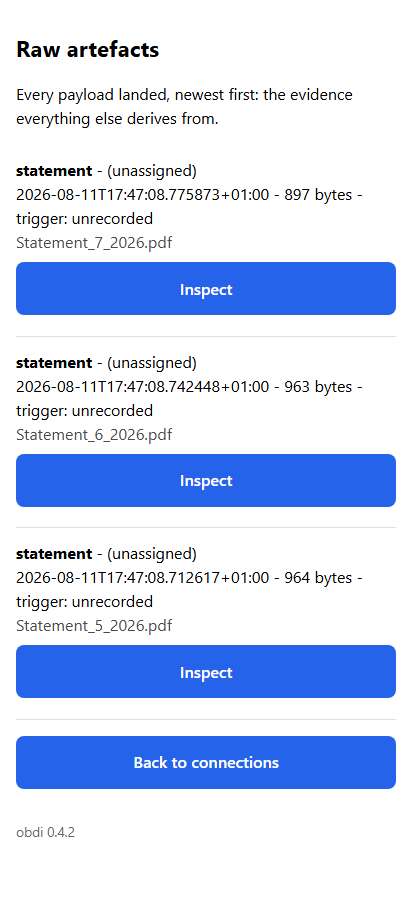
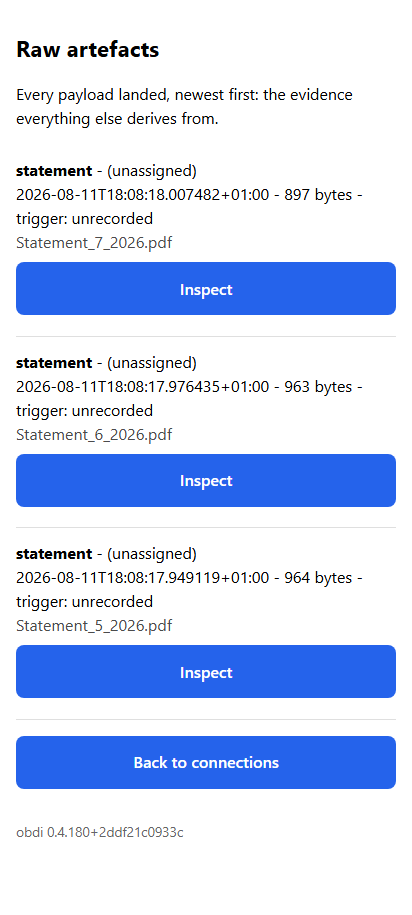
Screenshots name the build they are of, and one animation shows a batch landing
A picture that cannot be traced to a commit is a picture of nothing in
particular. Every image now carries the version and the short commit it
was generated from, in the footer the pages already render, and the same
pair is written beside them as text - a footer inside a picture cannot be
grepped, compared, or read by anything that is not a person looking at it.
A working tree with uncommitted changes says so, since it did not come
from that commit.

That needed the version to be true, which it was not. An editable install
records the version it was installed AT and never moves, so a tree at
0.4.179 reported 0.4.2 - the exact failure the build stamp exists to
defend against, arriving from the other side. The version may now be
supplied explicitly for the case where installed metadata cannot answer
honestly. It is a label; the commit remains the half that pins the code
and the half that cannot be argued with.

The animation shows a batch of statements landing: names recognised as
already held and skipped without being sent, the rest going one at a time,
each keeping its own line with its size, duration and outcome. Recorded
through a THROTTLED connection, which is not a contrivance - over loopback
a handful of invented statements land faster than a single frame, and the
link this is used over has been measured between 0.27 and 3.2 Mbps, so a
slow upload is the ordinary case and the one the per-file lines were built
[…]

diff --git a/scripts/capture_screens.py b/scripts/capture_screens.py
@@ -76,7 +76,41 @@ STATEMENTS = {
         "24 Jul SALARY 2,100.00",
         "Closing balance 7,292.31",
     ],
+    "Statement_8_2026.pdf": [
+        "Example Bank plc",
+        "Statement of account",
+        "01 Aug 2026 to 31 Aug 2026",
+        "Opening balance 7,292.31",
+        "03 Aug DIRECT DEBIT UTILITIES 62.00",
+        "14 Aug CARD PAYMENT GARDEN CENTRE 96.40",
+        "24 Aug SALARY 2,100.00",
+        "Closing balance 9,233.91",
+    ],
+    "Statement_9_2026.pdf": [
+        "Example Bank plc",
+        "Statement of account",
+        "01 Sep 2026 to 30 Sep 2026",
+        "Opening balance 9,233.91",
+        "02 Sep DIRECT DEBIT UTILITIES 62.00",
+        "24 Sep SALARY 2,100.00",
+        "Closing balance 11,271.91",
+    ],
+    "Statement_10_2026.pdf": [
+        "Example Bank plc",
+        "Statement of account",
+        "01 Oct 2026 to 31 Oct 2026",
+        "Opening balance 11,271.91",
+        "02 Oct DIRECT DEBIT UTILITIES 62.00",
+        "09 Oct CARD PAYMENT CYCLE REPAIR 74.25",
+        "24 Oct SALARY 2,100.00",
+        "Closing balance 13,235.66",
+    ],
 }
+
+#: How many are landed before the animation runs. The rest are new, so the
+#: recording shows both halves: what is recognised and skipped, and what is
+#: actually sent.
+SEEDED = 3
 
 #: Two declared accounts, so the picker in the pictures is not empty.
 ACCOUNTS = {
@@ -86,6 +120,40 @@ ACCOUNTS = {
         {"id": "example-savings", "kind": "savings", "label": "Example savings"},
     ],
 }
+
+
+def running_build() -> tuple[str, str]:
+    """The version and commit these pictures will be OF.
+
+    Read from the sources of truth rather than from the installed
+    metadata, which an editable install freezes at whatever it was when
+    `pip install -e` last ran. Pictures that cannot be traced back to a
+    commit are pictures of nothing in particular, and the footer they
+    carry is the record.
+    """
+    version = ""
+    for line in (REPO / "pyproject.toml").read_text(encoding="utf-8").splitlines():
+        if line.startswith("version = "):
+            version = line.split("=", 1)[1].strip().strip('"')
+            break
+    commit = subprocess.run(
+        ["git", "rev-parse", "--short=12", "HEAD"],  # noqa: S607
+        cwd=str(REPO),
+        capture_output=True,
+        text=True,
+        check=False,
+    ).stdout.strip()
+    dirty = subprocess.run(
+        ["git", "status", "--porcelain"],  # noqa: S607
+        cwd=str(REPO),
+        capture_output=True,
+        text=True,
+        check=False,
+    ).stdout.strip()
+    # A working tree with changes in it did not come from that commit, and
+    # saying so is cheaper than wondering later why the picture and the
+    # commit disagree.
+    return version, (f"{commit}-dirty" if dirty else commit)
 
 
 def wait_for(url: str, seconds: int = 30) -> None:
@@ -115,6 +183,85 @@ def upload(name: str, payload: bytes) -> None:
     urllib.request.urlopen(request, timeout=60).read()  # noqa: S310
 
 
+#: Frames for the animation, and how long each is shown. Enough to watch a
+#: batch land without becoming a file nobody waits for: a README animation
+#: that takes longer to play than the thing it shows has stopped
+#: illustrating and started delaying.
+GIF_FRAMES = 26
+GIF_INTERVAL_MS = 220
+GIF_HOLD_MS = 1800
+
+#: Throttled upload, in bytes per second. Over loopback a handful of small
+#: statements land faster than one frame, so the recording would show a
+#: form and then a result with nothing between them. The link this is used
+#: over has been measured between 0.27 and 3.2 Mbps, so a slow upload is
+#: the ordinary case rather than a contrivance.
+UPLOAD_BYTES_PER_SECOND = 2000
+
+
+def record_upload(page, folder: Path) -> list:
+    """Photograph a batch upload while it happens.
+
+    Frames rather than a video, because the frames come from the same
+    screenshot call as the still images - no second capture path, no codec,
+    and Pillow is already here. The interesting part is not motion anyway:
+    it is the per-file lines arriving one after another, which is a
+    sequence of states rather than something that moves.
+    """
+    from io import BytesIO
+
+    from PIL import Image
+
+    # Throttled, and honestly so. Over a loopback connection a handful of
+    # invented statements land faster than a single frame, so the recording
+    # would show a form and then a result with nothing in between - an
+    # animation of an instant. The link this is actually used over has been
+    # measured between 0.27 and 3.2 Mbps, so a slow upload is the ordinary
+    # case rather than a contrivance, and it is the case the per-file lines
+    # and the running total were built for.
+    session = page.context.new_cdp_session(page)
+    session.send("Network.enable")
+    session.send(
+        "Network.emulateNetworkConditions",
+        {
+            "offline": False,
+            "latency": 40,
+            "downloadThroughput": 200_000,
+            "uploadThroughput": UPLOAD_BYTES_PER_SECOND,
+        },
+    )
+
+    page.goto(f"{BASE}/statement-shape")
+    page.locator("input[type=file]").first.set_input_files(
+        [str(path) for path in sorted(folder.glob("*.pdf"))]
+    )
+    frames = [Image.open(BytesIO(page.screenshot())).convert("RGB")]
+    page.get_by_role("button", name="Read the shape").click()
+    for _ in range(GIF_FRAMES):
+        page.wait_for_timeout(GIF_INTERVAL_MS)
+        frames.append(Image.open(BytesIO(page.screenshot())).convert("RGB"))
+    return frames
+
+
+def save_gif(frames: list, path: Path) -> None:
+    """Write the frames as one animation, holding on the last.
+
+    Quantised to a small palette: these pages are flat colour and text, so
+    the loss is invisible and the file is a fraction of the size - which
+    decides whether it can live in a repository at all.
+    """
+    palette = [frame.quantize(colors=64, dither=0) for frame in frames]
+    durations = [GIF_INTERVAL_MS] * (len(palette) - 1) + [GIF_HOLD_MS]
+    palette[0].save(
+        path,
+        save_all=True,
+        append_images=palette[1:],
+        duration=durations,
+        loop=0,
+        optimize=True,
+    )
+
+
 def capture(scratch: Path) -> None:
     from playwright.sync_api import sync_playwright
 
@@ -137,10 +284,20 @@ def capture(scratch: Path) -> None:
             page.wait_for_timeout(400)
             page.screenshot(path=str(SHOTS / f"{name}.png"), full_page=True)
             print(f"  {label}: docs/screens/{name}.png")
+
+        # Last, because it uploads: the store it leaves behind is thrown
+        # away with the temporary directory, but the still images above
+        # should be of a store nobody has just doubled.
+        frames = record_upload(page, scratch / "batch")
+        save_gif(frames, SHOTS / "keeping-a-batch.gif")
+        size = (SHOTS / "keeping-a-batch.gif").stat().st_size
+        print(f"  Keeping a batch: docs/screens/keeping-a-batch.gif ({size // 1024} KiB)")
         browser.close()
 
 
 def main() -> int:
+    version, commit = running_build()
+    print(f"capturing obdi {version}+{commit}")
     with tempfile.TemporaryDirectory() as raw:
         scratch = Path(raw)
         (scratch / "accounts.json").write_text(json.dumps(ACCOUNTS), encoding="utf-8")
@@ -153,6 +310,9 @@ def main() -> int:
             "TRUELAYER_CLIENT_ID": "screens",
             "TRUELAYER_CLIENT_SECRET": "screens",
             "TRUELAYER_REDIRECT_URI": "http://127.0.0.1/callback",
+            # So the footer in every image names the build it is of.
+            "OBDI_BUILD_VERSION": version,
+            "OBDI_BUILD_COMMIT": commit,
         }
         server = subprocess.Popen(  # noqa: S603 - fixed argv
             [sys.executable, "-m", "obdi.cli", "serve", "--port", str(PORT)],
@@ -163,10 +323,26 @@ def main() -> int:
         )
         try:
             wait_for(f"{BASE}/healthz")
+
+            # Every statement written to disk, but only the FIRST few
+            # landed. The animation then chooses all of them and shows both
+            # halves of what the page does: recognising what is already
+            # held without sending it, and sending the rest.
+            batch = scratch / "batch"
+            batch.mkdir()
             for name, lines in STATEMENTS.items():
-                upload(name, build_pdf(lines))
-            print(f"landed {len(STATEMENTS)} invented statement(s)")
+                (batch / name).write_bytes(build_pdf(lines))
+            for name in list(STATEMENTS)[:SEEDED]:
+                upload(name, build_pdf(STATEMENTS[name]))
+            print(f"landed {SEEDED} of {len(STATEMENTS)} invented statement(s)")
             capture(scratch)
+            # Also written beside the images, because a footer inside a
+            # picture cannot be grepped, compared or read by anything that
+            # is not a person looking at it.
+            SHOTS.mkdir(parents=True, exist_ok=True)
+            (SHOTS / "generated-from.txt").write_text(
+                f"obdi {version}+{commit}\n", encoding="utf-8"
+            )
         finally:
             server.terminate()
             server.wait(timeout=10)

diff --git a/src/obdi/buildinfo.py b/src/obdi/buildinfo.py
@@ -16,12 +16,29 @@ import os
 
 
 def describe() -> str:
-    """The running build, as "version+shortcommit" when the commit is known."""
-    try:
-        from importlib.metadata import version
+    """The running build, as "version+shortcommit" when the commit is known.
 
-        base = version("obdi")
-    except Exception:
-        base = "unpackaged"
+    The version can be overridden by OBDI_BUILD_VERSION for the case the
+    installed metadata cannot answer honestly: an editable install records
+    the version it was installed AT and never moves, so a working tree at
+    0.4.179 reports whatever it was when `pip install -e` last ran. That
+    stale number then reaches anything rendering this - including a
+    screenshot committed to the README, which would advertise a version
+    nobody is running.
+
+    The override is a label. The COMMIT remains the thing that pins the
+    code, which is why it is the half injected at image build and the half
+    that cannot be argued with.
+    """
+    override = os.environ.get("OBDI_BUILD_VERSION", "").strip()
+    if override:
+        base = override
+    else:
+        try:
+            from importlib.metadata import version
+
+            base = version("obdi")
+        except Exception:
+            base = "unpackaged"
     commit = os.environ.get("OBDI_BUILD_COMMIT", "").strip()[:12]
     return f"{base}+{commit}" if commit else base

diff --git a/README.md b/README.md
@@ -59,6 +59,17 @@ with it.
 |---|---|---|
 | ![The upload page](docs/screens/statement-shape.png) | ![A statement with every value masked](docs/screens/statement-masked.png) | ![The raw artefact list](docs/screens/artefacts.png) |
 
+Keeping a batch, recorded over a throttled connection because that is the
+ordinary case — statements already held are recognised and never sent, and the
+rest go one at a time, each keeping its own line with its size, its duration and
+what happened to it:
+
+![A batch of statements being kept](docs/screens/keeping-a-batch.gif)
+
+Every image names the version and commit it was generated from, in the footer;
+`docs/screens/generated-from.txt` carries the same pair as text, because a
+footer inside a picture cannot be grepped.
+
 The middle one is the point of the PDF arm. Writing a parser for a bank's
 statement needs its LAYOUT — column order, header wording, date format, how the
 balance lines are phrased — and none of its contents. So a statement is shown
